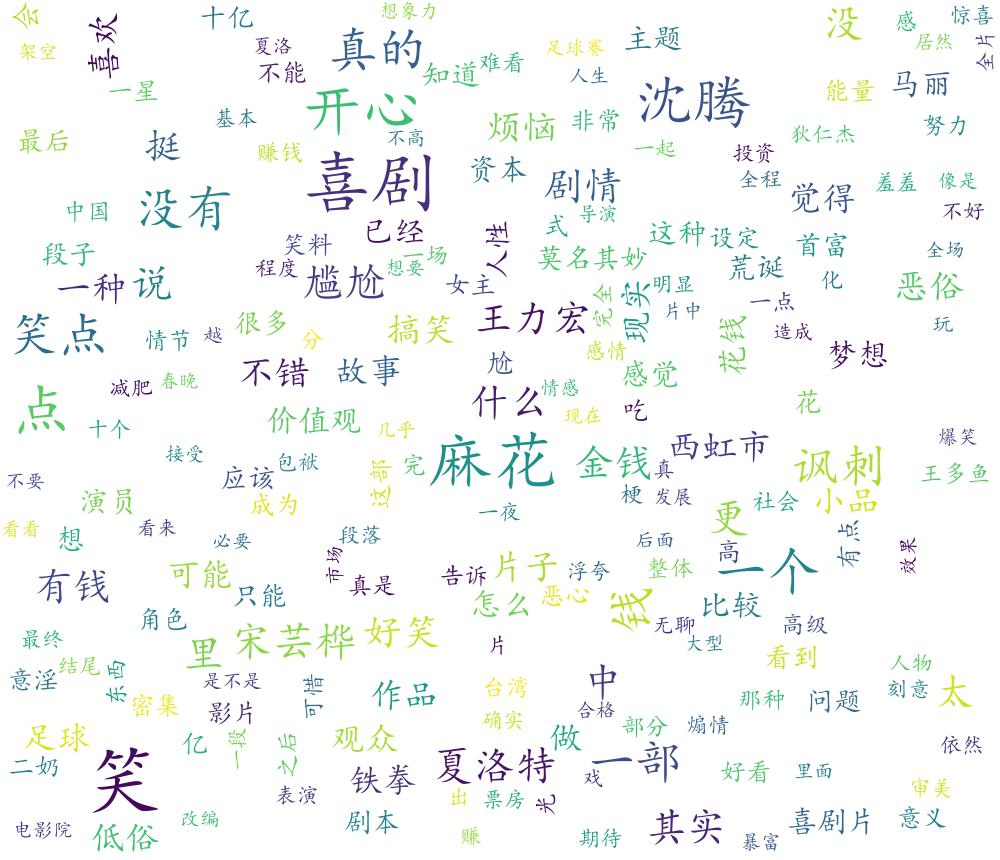
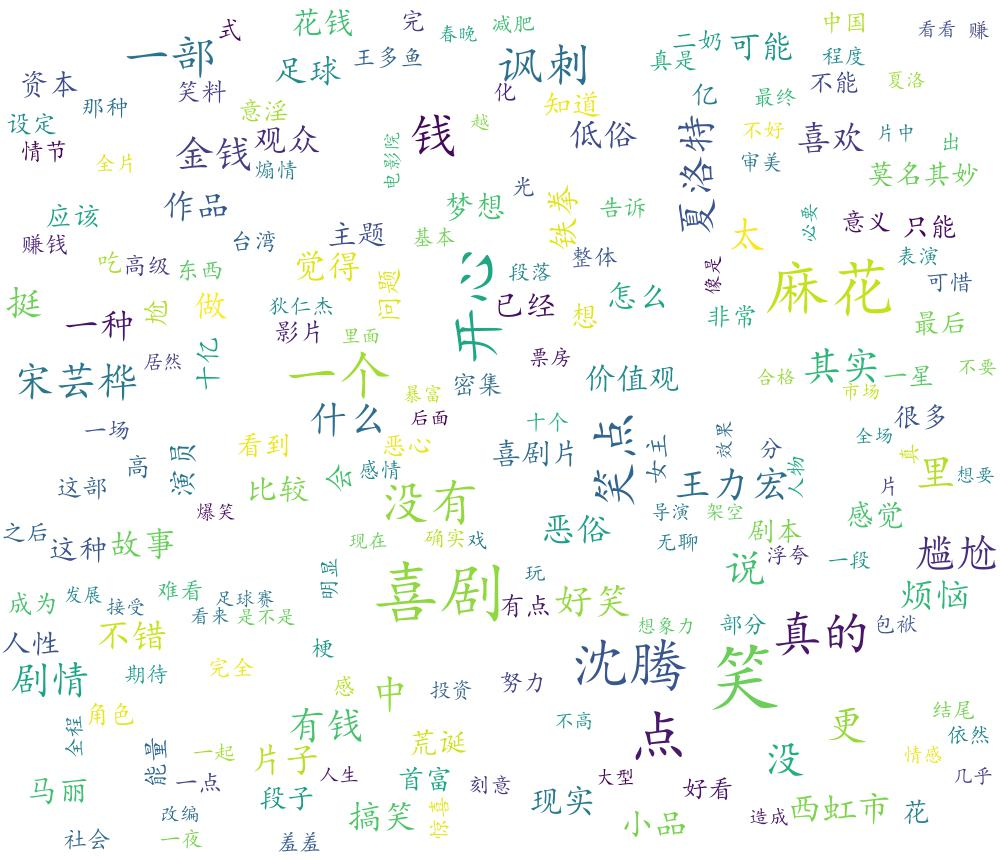
add 小偷家族

Changed region(s): [[0.0, 0.0, 1.0, 0.9977], [0.961, 0.393, 0.992, 0.4535], [0.279, 0.9674, 0.341, 0.9977]]

diff --git a/douban_spider.py b/douban_spider.py
@@ -124,4 +124,5 @@ if __name__ == "__main__":
     # main("4920389", "头号玩家")
     # main("26366496", "邪不压正")
     # main("26752088", "我不是药神")
-    main("27605698", "西虹市首富")
+    # main("27605698", "西虹市首富")
+    main("27622447","小偷家族")
